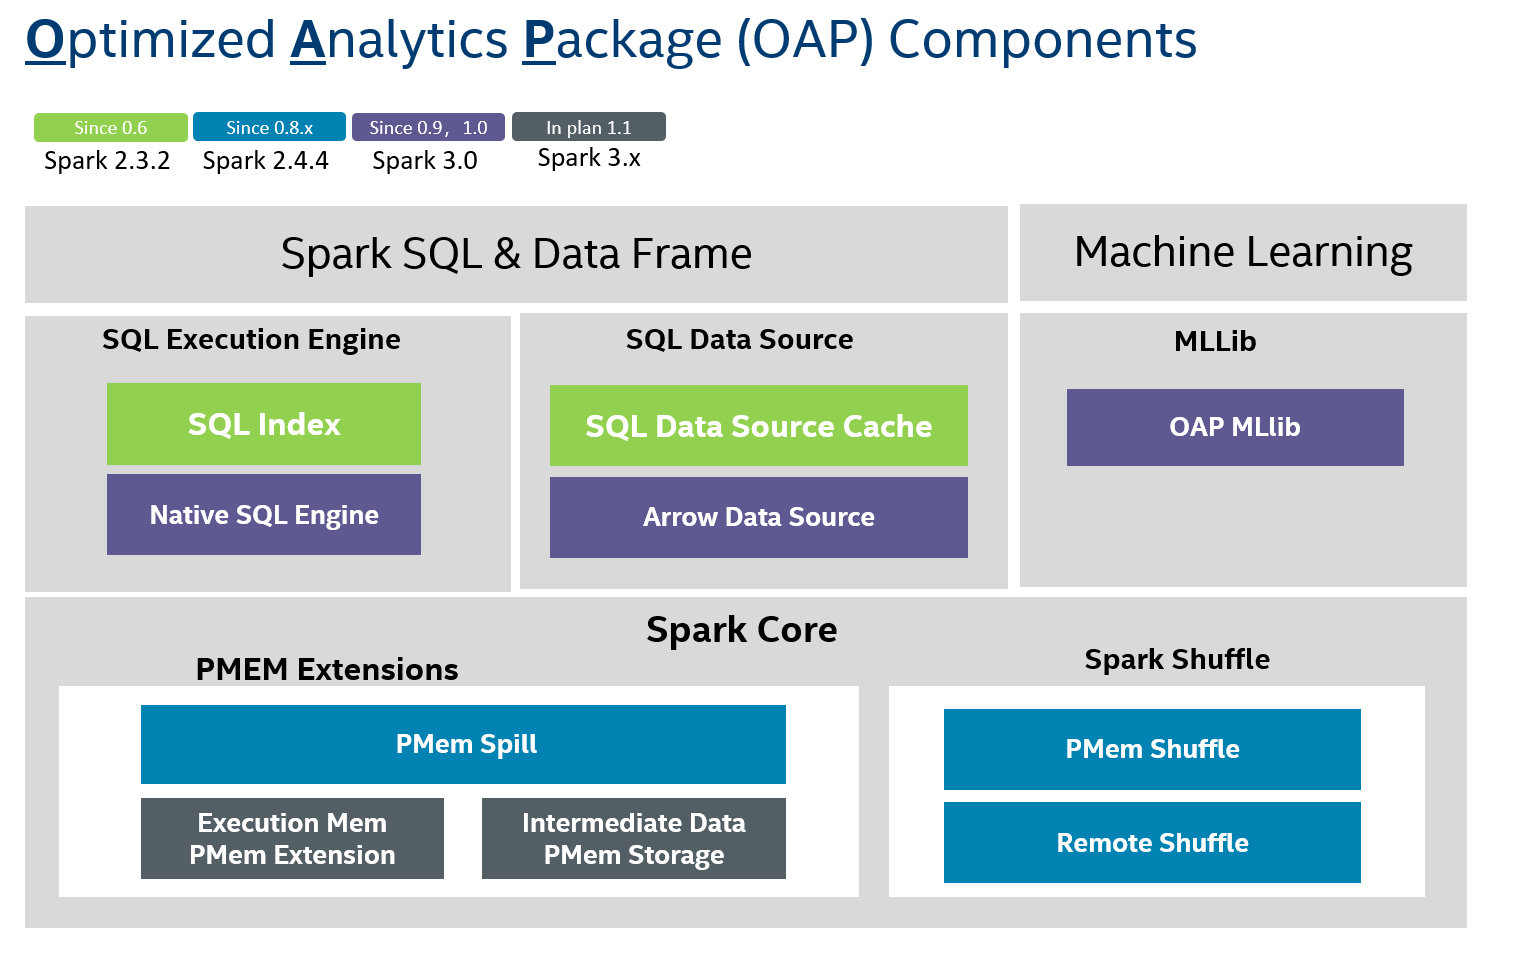
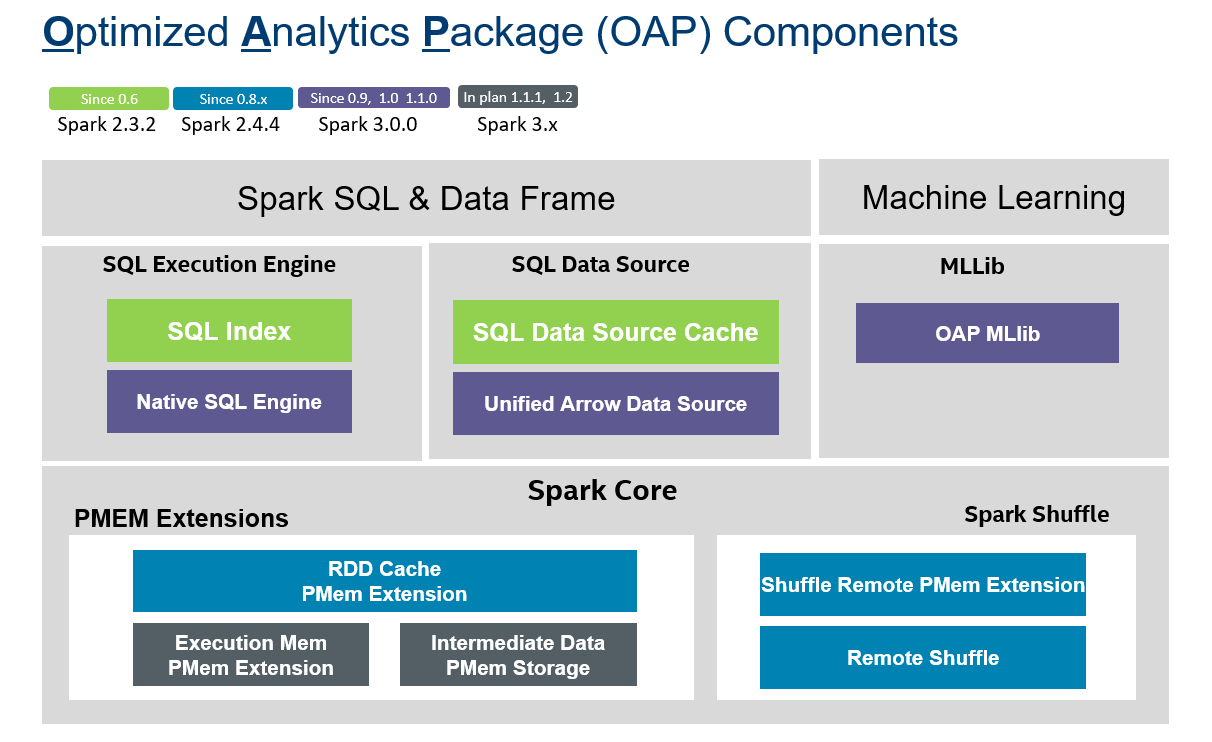
Update master

diff --git a/master/OAP-Developer-Guide/index.html b/master/OAP-Developer-Guide/index.html
@@ -11,7 +11,7 @@
     
     <link rel="shortcut icon" href="/img/favicon.ico">
     <meta name="viewport" content="width=device-width, initial-scale=1.0, maximum-scale=1.0, user-scalable=0" />
-    <title>OAP Developer Guide - OAP Project</title>
+    <title>OAP Developer Guide - OAP</title>
     <link href="/css/bootstrap-3.3.7.min.css" rel="stylesheet">
     <link href="/css/font-awesome-4.7.0.css" rel="stylesheet">
     <link href="/css/base.css" rel="stylesheet">
@@ -33,8 +33,9 @@
       var is_top_frame = false;
         
         var pageToc = [
-          {title: "OAP Developer Guide", url: "#oap-developer-guide", children: [
-              {title: "Building OAP", url: "#building-oap" },
+          {title: "Building OAP", url: "#building-oap", children: [
+              {title: "Prerequisites", url: "#prerequisites" },
+              {title: "Building", url: "#building" },
           ]},
         ];
 
@@ -62,22 +63,27 @@ if (is_top_frame) { $('body').addClass('wm-top-page'); }
     
     <h1><strong>OAP Developer Guide</strong></h1>
     <hr>
-    <h1 id="oap-developer-guide">OAP Developer Guide</h1>
-<p>This document contains the instructions &amp; scripts on installing necessary dependencies and building OAP. 
+    <p>This document contains the instructions &amp; scripts on installing necessary dependencies and building OAP modules. 
 You can get more detailed information from OAP each module below.</p>
 <ul>
-<li><a href="https://oap-project.github.io/sql-ds-cache/">SQL DS Cache</a></li>
-<li><a href="https://oap-project.github.io/pmem-common">PMem Common</a></li>
-<li><a href="https://oap-project.github.io/pmem-spill">PMem Spill</a></li>
-<li><a href="https://oap-project.github.io/pmem-shuffle">PMem Shuffle</a></li>
-<li><a href="https://oap-project.github.io/remote-shuffle">Remote Shuffle</a></li>
-<li><a href="https://oap-project.github.io/oap-mllib">OAP MLlib</a></li>
-<li><a href="https://oap-project.github.io/arrow-data-source">Arrow Data Source</a></li>
-<li><a href="https://oap-project.github.io/native-sql-engine">Native SQL Engine</a></li>
+<li><a href="https://github.com/oap-project/sql-ds-cache/blob/v1.1.0-spark-3.0.0/docs/Developer-Guide.md">SQL Index and Data Source Cache</a></li>
+<li><a href="https://github.com/oap-project/pmem-common/tree/v1.1.0-spark-3.0.0">PMem Common</a></li>
+<li><a href="https://github.com/oap-project/pmem-spill/tree/v1.1.0-spark-3.0.0">PMem Spill</a></li>
+<li><a href="https://github.com/oap-project/pmem-shuffle/tree/v1.1.0-spark-3.0.0#5-install-dependencies-for-pmem-shuffle">PMem Shuffle</a></li>
+<li><a href="https://github.com/oap-project/remote-shuffle/tree/v1.1.0-spark-3.0.0">Remote Shuffle</a></li>
+<li><a href="https://github.com/oap-project/oap-mllib/tree/v1.1.0-spark-3.0.0">OAP MLlib</a></li>
+<li><a href="https://github.com/oap-project/native-sql-engine/tree/v1.1.0-spark-3.0.0">Native SQL Engine</a></li>
 </ul>
 <h2 id="building-oap">Building OAP</h2>
-<h3 id="prerequisites-for-building">Prerequisites for Building</h3>
-<p>OAP is built with <a href="http://maven.apache.org/">Apache Maven</a> and Oracle Java 8, and mainly required tools to install on your cluster are listed below.</p>
+<h3 id="prerequisites">Prerequisites</h3>
+<p>We provide scripts to help automatically install dependencies required, please change to <strong>root</strong> user and run:</p>
+<pre><code># git clone -b branch-1.1-spark-3.x https://github.com/oap-project/oap-tools.git
+# cd oap-tools
+# sh dev/install-compile-time-dependencies.sh
+</code></pre>
+
+<p><em>Note</em>: <code>branch-1.1-spark-3.x</code> is for OAP modules version <code>v1.1.0-spark-3.0.0</code></p>
+<p>Then the dependencies below will be installed:</p>
 <ul>
 <li><a href="https://help.directadmin.com/item.php?id=494">Cmake</a></li>
 <li><a href="https://gcc.gnu.org/wiki/InstallingGCC">GCC &gt; 7</a></li>
@@ -86,20 +92,9 @@ You can get more detailed information from OAP each module below.</p>
 <li><a href="https://github.com/Intel-bigdata/HPNL">HPNL</a></li>
 <li><a href="https://github.com/pmem/pmdk">PMDK</a>  </li>
 <li><a href="https://software.intel.com/content/www/us/en/develop/tools/oneapi.html">OneAPI</a></li>
-<li>
-<p><a href="https://github.com/Intel-bigdata/arrow">Arrow</a></p>
-</li>
-<li>
-<p><strong>Requirements for PMem Shuffle</strong></p>
-</li>
+<li><a href="https://github.com/oap-project/arrow/tree/arrow-3.0.0-oap-1.1">Arrow</a></li>
+<li><a href="https://llvm.org/">LLVM</a> </li>
 </ul>
-<p>If enable PMem Shuffle with RDMA, you can refer to <a href="https://oap-project.github.io/pmem-shuffle">PMem Shuffle</a> to configure and validate RDMA in advance.</p>
-<p>We provide scripts below to help automatically install dependencies above <strong>except RDMA</strong>, need change to <strong>root</strong> account, run:</p>
-<pre><code># git clone -b &lt;version&gt; https://github.com/oap-project/oap-tools.git
-# cd oap-tools
-# sh dev/install-compile-time-dependencies.sh
-</code></pre>
-
 <p>Run the following command to learn more.</p>
 <pre><code># sh dev/scripts/prepare_oap_env.sh --help
 </code></pre>
@@ -108,12 +103,17 @@ You can get more detailed information from OAP each module below.</p>
 <pre><code># sh dev/scripts/prepare_oap_env.sh --prepare_maven
 </code></pre>
 
+<ul>
+<li><strong>Requirements for Shuffle Remote PMem Extension</strong><br />
+If enable Shuffle Remote PMem extension with RDMA, you can refer to <a href="https://github.com/oap-project/pmem-shuffle">PMem Shuffle</a> to configure and validate RDMA in advance.</li>
+</ul>
 <h3 id="building">Building</h3>
+<p>OAP is built with <a href="http://maven.apache.org/">Apache Maven</a> and Oracle Java 8.</p>
 <p>To build OAP package, run command below then you can find a tarball named <code>oap-$VERSION-bin-spark-$VERSION.tar.gz</code> under directory <code>$OAP_TOOLS_HOME/dev/release-package</code>.</p>
 <pre><code>$ sh $OAP_TOOLS_HOME/dev/compile-oap.sh
 </code></pre>
 
-<p>Building Specified OAP Module, such as <code>sql-ds-cache</code>, run:</p>
+<p>Building specified OAP Module, such as <code>sql-ds-cache</code>, run:</p>
 <pre><code>$ sh $OAP_TOOLS_HOME/dev/compile-oap.sh --sql-ds-cache
 </code></pre>
 

diff --git a/master/OAP-Installation-Guide/index.html b/master/OAP-Installation-Guide/index.html
@@ -11,7 +11,7 @@
     
     <link rel="shortcut icon" href="/img/favicon.ico">
     <meta name="viewport" content="width=device-width, initial-scale=1.0, maximum-scale=1.0, user-scalable=0" />
-    <title>OAP Installation Guide - OAP Project</title>
+    <title>OAP Installation Guide - OAP</title>
     <link href="/css/bootstrap-3.3.7.min.css" rel="stylesheet">
     <link href="/css/font-awesome-4.7.0.css" rel="stylesheet">
     <link href="/css/base.css" rel="stylesheet">
@@ -33,8 +33,7 @@
       var is_top_frame = false;
         
         var pageToc = [
-          {title: "OAP Installation Guide", url: "#oap-installation-guide", children: [
-              {title: "Contents", url: "#contents" },
+          {title: "Contents", url: "#contents", children: [
               {title: "Prerequisites", url: "#prerequisites" },
               {title: "Installing OAP", url: "#installing-oap" },
               {title: "Configuration", url: "#configuration" },
@@ -65,8 +64,7 @@ if (is_top_frame) { $('body').addClass('wm-top-page'); }
     
     <h1><strong>OAP Installation Guide</strong></h1>
     <hr>
-    <h1 id="oap-installation-guide">OAP Installation Guide</h1>
-<p>This document introduces how to install OAP and its dependencies on your cluster nodes by <strong><em>Conda</em></strong>. 
+    <p>This document introduces how to install OAP and its dependencies on your cluster nodes by <strong><em>Conda</em></strong>. 
 Follow steps below on <strong><em>every node</em></strong> of your cluster to set right environment for each machine.</p>
 <h2 id="contents">Contents</h2>
 <ul>
@@ -74,7 +72,7 @@ Follow steps below on <strong><em>every node</em></strong> of your cluster to se
 <li><a href="#installing-oap">Installing OAP</a></li>
 <li><a href="#configuration">Configuration</a></li>
 </ul>
-<h2 id="prerequisites">Prerequisites</h2>
+<h3 id="prerequisites">Prerequisites</h3>
 <ul>
 <li>
 <p><strong>OS Requirements</strong><br />
@@ -90,8 +88,16 @@ $ chmod +x Miniconda2-latest-Linux-x86_64.sh
 $ bash Miniconda2-latest-Linux-x86_64.sh 
 </code></pre>
 
-<p>For changes to take effect, close and re-open your current shell. To test your installation,  run the command <code>conda list</code> in your terminal window. A list of installed packages appears if it has been installed correctly.</p>
-<h2 id="installing-oap">Installing OAP</h2>
+<p>For changes to take effect, <strong><em>close and re-open</em></strong> your current shell. 
+To test your installation,  run the command <code>conda list</code> in your terminal window. A list of installed packages appears if it has been installed correctly.</p>
+<h3 id="installing-oap">Installing OAP</h3>
+<p>Create a Conda environment and install OAP Conda package.</p>
+<pre><code class="bash">$ conda create -n oapenv -y python=3.7
+$ conda activate oapenv
+$ conda install -c conda-forge -c intel -y oap=1.1.0
+</code></pre>
+
+<p>Once finished steps above, you have completed OAP dependencies installation and OAP building, and will find built OAP jars under <code>$HOME/miniconda2/envs/oapenv/oap_jars</code></p>
 <p>Dependencies below are required by OAP and all of them are included in OAP Conda package, they will be automatically installed in your cluster when you Conda install OAP. Ensure you have activated environment which you created in the previous steps.</p>
 <ul>
 <li><a href="https://github.com/Intel-bigdata/arrow">Arrow</a></li>
@@ -102,16 +108,9 @@ $ bash Miniconda2-latest-Linux-x86_64.sh
 <li><a href="https://github.com/pmem/pmdk">PMDK</a>  </li>
 <li><a href="https://software.intel.com/content/www/us/en/develop/tools/oneapi.html">OneAPI</a></li>
 </ul>
-<p>Create a conda environment and install OAP Conda package.</p>
-<pre><code class="bash">$ conda create -n oapenv -y python=3.7
-$ conda activate oapenv
-$ conda install -c conda-forge -c intel -y oap=1.0.0
-</code></pre>
-
-<p>Once finished steps above, you have completed OAP dependencies installation and OAP building, and will find built OAP jars under <code>$HOME/miniconda2/envs/oapenv/oap_jars</code></p>
-<h4 id="extra-steps-for-pmem-shuffle">Extra Steps for PMem Shuffle</h4>
+<h4 id="extra-steps-for-shuffle-remote-pmem-extension">Extra Steps for Shuffle Remote PMem Extension</h4>
 <p>If you use one of OAP features -- <a href="https://github.com/oap-project/pmem-shuffle">PMem Shuffle</a> with <strong>RDMA</strong>, you need to configure and validate RDMA, please refer to <a href="https://github.com/oap-project/pmem-shuffle#4-configure-and-validate-rdma">PMem Shuffle</a> for the details.</p>
-<h2 id="configuration">Configuration</h2>
+<h3 id="configuration">Configuration</h3>
 <p>Once finished steps above, make sure libraries installed by Conda can be linked by Spark, please add the following configuration settings to <code>$SPARK_HOME/conf/spark-defaults.conf</code>.</p>
 <pre><code>spark.executorEnv.LD_LIBRARY_PATH   $HOME/miniconda2/envs/oapenv/lib
 spark.executor.extraLibraryPath     $HOME/miniconda2/envs/oapenv/lib
@@ -120,7 +119,7 @@ spark.executor.extraClassPath       $HOME/miniconda2/envs/oapenv/oap_jars/$OAP_F
 spark.driver.extraClassPath         $HOME/miniconda2/envs/oapenv/oap_jars/$OAP_FEATURE.jar
 </code></pre>
 
-<p>And then you can follow the corresponding feature documents for more details to use them.</p>
+<p>Then you can follow the corresponding feature documents for more details to use them.</p>
 
   <br>
 </div>

diff --git a/master/OAP-Release-Cadence/index.html b/master/OAP-Release-Cadence/index.html
@@ -11,12 +11,12 @@
     
     <link rel="shortcut icon" href="/img/favicon.ico">
     <meta name="viewport" content="width=device-width, initial-scale=1.0, maximum-scale=1.0, user-scalable=0" />
-    <title>OAP</title>
+    <title>OAP Release Cadence - OAP</title>
     <link href="/css/bootstrap-3.3.7.min.css" rel="stylesheet">
     <link href="/css/font-awesome-4.7.0.css" rel="stylesheet">
     <link href="/css/base.css" rel="stylesheet">
     <link rel="stylesheet" href="/css/highlight.css">
-    <link href="./extra.css" rel="stylesheet">
+    <link href="../extra.css" rel="stylesheet">
     <!-- HTML5 shim and Respond.js IE8 support of HTML5 elements and media queries -->
     <!--[if lt IE 9]>
         <script src="https://oss.maxcdn.com/libs/html5shiv/3.7.0/html5shiv.js"></script>
@@ -29,9 +29,18 @@
     
     <base target="_top">
     <script>
-      var base_url = '.';
+      var base_url = '..';
       var is_top_frame = false;
-        var page_toc = null;
+        
+        var pageToc = [
+          {title: "OAP Versions", url: "#oap-versions", children: [
+          ]},
+          {title: "Release Cadence", url: "#release-cadence", children: [
+              {title: "OAP 1.2 Release Window", url: "#oap-12-release-window" },
+          ]},
+          {title: "Maintenance Releases", url: "#maintenance-releases", children: [
+          ]},
+        ];
 
     </script>
     <script src="/js/base.js"></script>
@@ -54,21 +63,21 @@ if (is_top_frame) { $('body').addClass('wm-top-page'); }
 
 
 <div class="container-fluid wm-page-content">
-  <h1 id="search">Search Results</h1>
-
-  <ul id="mkdocs-search-results" class="wm-search-page">
-    Searching...
-  </ul>
-
-  <script>
-    window.top.doSearch({
-      resultsElem: $('#mkdocs-search-results'),
-      query: getParam('q'),
-      snippetLen: 200,
-      limit: 0
-    });
-  </script>
-
+    
+    <h1><strong>OAP Release Cadence</strong></h1>
+    <hr>
+    <p>Starting with OAP 1.1.0, the OAP project will follow the semantic versioning guidelines with a few deviations. These small differences account for OAP’s nature as a multi-module project.</p>
+<h4 id="oap-versions">OAP Versions</h4>
+<p>Each OAP release will be versioned: [MAJOR].[FEATURE].[MAINTENANCE]</p>
+<h4 id="release-cadence">Release Cadence</h4>
+<p>In general, major feature releases occur about every 4 months. Hence, OAP would generally be released about 4 months after 1.1.0. Maintenance releases happen as needed in between feature releases. Major releases do not happen according to a fixed schedule.</p>
+<h5 id="oap-12-release-window">OAP 1.2 Release Window</h5>
+<p>Date                         Event</p>
+<p>July 23th  2021              Code freeze. Release branch cut.</p>
+<p>Mid August 2021              QA period. Focus on bug fixes, tests, stability and docs. Generally, no new features merged.</p>
+<p>August     2021              Release candidates (RC), etc. until final release passes</p>
+<h4 id="maintenance-releases">Maintenance Releases</h4>
+<p>Feature release branches will, generally, be maintained with bug fix releases for a period of several months.</p>
 
   <br>
 </div>

diff --git a/master/index.html b/master/index.html
@@ -11,7 +11,7 @@
     
     <link rel="shortcut icon" href="/img/favicon.ico">
     <meta name="viewport" content="width=device-width, initial-scale=1.0, maximum-scale=1.0, user-scalable=0" />
-    <title>OAP Project</title>
+    <title>OAP</title>
     <link href="/css/bootstrap-3.3.7.min.css" rel="stylesheet">
     <link href="/css/font-awesome-4.7.0.css" rel="stylesheet">
     <link href="/css/base.css" rel="stylesheet">
@@ -95,7 +95,7 @@ if (is_top_frame) { $('body').addClass('wm-top-page'); }
       <div class="wm-top-title">
         <a href="" class="wm-top-brand wm-top-link wm-vcenter ">
             <!--img class="wm-top-logo" src="/img/bigdl_logo.png"/-->
-	    <span tilte="name">OAP</span>
+	    <span tilte="name">Analytics-Zoo</span>
         </a>
       </div>
       
@@ -127,6 +127,8 @@ if (is_top_frame) { $('body').addClass('wm-top-page'); }
 </li>
         <li class="wm-toc-li wm-toc-lev1 "><a href="OAP-Developer-Guide/" class="wm-article-link wm-toc-text">OAP Developer Guide</a>
 </li>
+        <li class="wm-toc-li wm-toc-lev1 "><a href="OAP-Release-Cadence/" class="wm-article-link wm-toc-text">OAP Release Cadence</a>
+</li>
   </ul>
 </nav>
 
@@ -140,7 +142,7 @@ if (is_top_frame) { $('body').addClass('wm-top-page'); }
     <h1><strong>Overview</strong></h1>
     <hr>
     <p><img alt="logo" src="./image/logo.jpg" /> </p>
-<p>Optimized Analytics Package (OAP) is an open source project to optimize <strong>Apache Spark</strong> on <strong>cache</strong>, <strong>shuffle</strong>, <strong>native SQL engine</strong> and <strong>MLlib</strong>, driven by Intel and the community.</p>
+<p>Optimized Analytics Package (OAP) is an open source project to optimize Apache Spark on Cache, Shuffle, Native SQL Engine, MLlib and so on, driven by Intel and the community.</p>
 <h1 id="why-use-oap"><font size="6"><b>Why use OAP?</b></font></h1>
 <p>Apache Spark is powerful and well optimized on many aspects, but still faces some challenges to achieve the higher-level performance.</p>
 <ul>
@@ -169,7 +171,6 @@ if (is_top_frame) { $('body').addClass('wm-top-page'); }
 <ul>
 <li><a href="https://oap-project.github.io/sql-ds-cache/">SQL DS Cache</a></li>
 <li><a href="https://oap-project.github.io/native-sql-engine/">Native SQL Engine</a></li>
-<li><a href="https://oap-project.github.io/arrow-data-source/">Arrow Data Source</a></li>
 <li><a href="https://oap-project.github.io/oap-mllib/">OAP MLlib</a></li>
 <li><a href="https://oap-project.github.io/pmem-shuffle/">PMem Shuffle</a></li>
 <li><a href="https://oap-project.github.io/remote-shuffle/">Remote Shuffle</a></li>
@@ -188,5 +189,5 @@ if (is_top_frame) { $('body').addClass('wm-top-page'); }
 </html>
 <!--
 MkDocs version : 0.16.3
-Build Date UTC : 2021-01-18 13:58:19
+Build Date UTC : 2021-04-26 07:23:20
 -->

diff --git a/master/404.html b/master/404.html
@@ -11,7 +11,7 @@
     
     <link rel="shortcut icon" href="/img/favicon.ico">
     <meta name="viewport" content="width=device-width, initial-scale=1.0, maximum-scale=1.0, user-scalable=0" />
-    <title>OAP Project</title>
+    <title>OAP</title>
     <link href="/css/bootstrap-3.3.7.min.css" rel="stylesheet">
     <link href="/css/font-awesome-4.7.0.css" rel="stylesheet">
     <link href="/css/base.css" rel="stylesheet">
